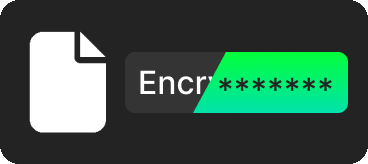
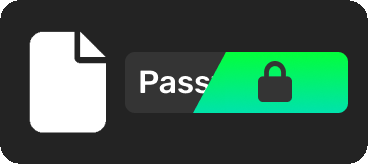
premium page update

diff --git a/src/views/dashboard/Premium.vue b/src/views/dashboard/Premium.vue
@@ -1,43 +1,93 @@
 <template>
-    <div class="inline-grid grid-cols-2 gap-5 m-1/2 translate-x-1/2">
+    <div class="flex flex-col flex-wrap items-center gap-5">
 
-        <div style="background: rgb(169,2,255); background: linear-gradient(0deg, rgb(77, 94, 246) 0%, rgb(168, 175, 241) 100%);" class=" rounded-2xl p-5 w-96 h-72 flex flex-col items-center">
-            <img :src="premiumStorage" class="pointer-events-none rounded-3xl">
-            <div class="h-2"></div>
-            <h1 class=" text-lg font-bold text-white">More Storage Space</h1>
-            <p class=" text-center opacity-90">Make your way life easier with bigger, or <span class="font-bold">unlimited</span> storage space.</p>
+        <!-- PLANS -->
+        <div class="flex flex-row flex-wrap items-center gap-5 select-none">
+
+            <div style=" background: rgb(62,151,255); background: linear-gradient(180deg, #4e5ef6 0%, #a7aef1 100%);" class=" rounded-2xl p-5 w-96 flex flex-col gap-2">
+                <div  class="flex flex-row gap-2 items-center">
+                    <h1 class="text-2xl font-bold"> Share </h1>
+                    <div class="rounded-md select-none font-black text-white px-3 uppercase" style="background-color: rgba(255,255,255,0.3);"> Plus </div>
+                    <div class="text-3xl w-full text-end"> <font-awesome-icon :icon="['fas', 'cloud']"/> </div>
+                </div>
+
+                <div class="flex flex-col text-lg">
+                    <p><font-awesome-icon :icon="['fas', 'boxes-packing']"/> 10GB of storage</p>
+                    <p><font-awesome-icon :icon="['fas', 'shield']" /> Advanced file encryption</p>
+                    <p><font-awesome-icon :icon="['fas', 'palette']" /> Colored nickname</p>
+                    <p><font-awesome-icon :icon="['fas', 'certificate']" /> Special Premium badge</p>
+                    <p>
+                        <br>
+                    </p>
+                </div>
+                
+                <a-button class="mt-10">Subscribe</a-button>
+            </div>
+
+            <div style=" background: rgb(177,0,255); background: linear-gradient(0deg, #a7aef1 0%, #d44ef6 100%);" class=" rounded-2xl p-5 w-96 flex flex-col gap-2">
+                <div  class="flex flex-row gap-2 items-center">
+                    <h1 class="text-2xl font-bold"> Share </h1>
+                    <div class="rounded-md select-none font-black text-white px-3 uppercase" style="background-color: rgba(255,255,255,0.3);"> Pro </div>
+                    <div class="text-3xl w-full text-end"> <font-awesome-icon :icon="['fas', 'cloud-bolt']"/> </div>
+                </div>
+
+                <div class="flex flex-col text-lg">
+                    <p><font-awesome-icon :icon="['fas', 'boxes-packing']"/> 25GB of storage</p>
+                    <p><font-awesome-icon :icon="['fas', 'shield']" /> Advanced file encryption</p>
+                    <p><font-awesome-icon :icon="['fas', 'palette']" /> Colored nickname</p>
+                    <p><font-awesome-icon :icon="['fas', 'certificate']" /> Special Premium badge</p>
+                    <p><font-awesome-icon :icon="['fas', 'lock']" /> Password protected files and way more!</p>
+                </div>
+
+                <a-button class="mt-10">Subscribe</a-button>
+            </div>
+            
         </div>
 
-        <div style="background-color: #141414;" class=" rounded-2xl p-5 w-96 h-72 flex flex-col items-center">
-            <img :src="premiumNames" class="pointer-events-none">
-            <div class="h-2"></div>
-            <h1 class=" text-lg font-bold text-white">Colored Usernames</h1>
-            <p class=" text-center opacity-80">Make yourself stand out with customisable, cool looking usernames.</p>
+        <!-- FEATURES -->
+        <h1 class="text-3xl mt-10 font-bold">Premium Features</h1>
+
+        <div class="flex flex-row flex-wrap items-center gap-5">
+            <div style="background: rgb(169,2,255); background: linear-gradient(0deg, rgb(77, 94, 246) 0%, rgb(168, 175, 241) 100%);" class=" hover:scale-105 hover:drop-shadow-md duration-200 rounded-2xl p-5 w-96 h-72 flex flex-col items-center">
+                <img :src="premiumStorage" class="select-none rounded-3xl">
+                <div class="h-2"></div>
+                <h1 class=" text-lg font-bold text-white">More Storage Space</h1>
+                <p class=" text-center opacity-90">Make your way life easier with bigger, or <span class="font-bold">unlimited</span> storage space.</p>
+            </div>
+
+            <div style="background-color: #141414;" class=" hover:scale-105 hover:drop-shadow-md duration-200 rounded-2xl p-5 w-96 h-72 flex flex-col items-center">
+                <img :src="premiumPassword" class="select-none">
+                <div class="h-2"></div>
+                <h1 class=" text-lg font-bold text-white">Password Protection</h1>
+                <p class=" text-center opacity-80">Protect files with a password, so only people you trust can access them.</p>
+            </div>
         </div>
 
-        <div style="background-color: #141414;" class=" rounded-2xl p-5 w-96 h-72 flex flex-col items-center">
-            <img :src="premiumBadge" class="pointer-events-none">
-            <div class="h-2"></div>
-            <h1 class=" text-lg font-bold text-white">Premium Badge</h1>
-            <p class=" text-center opacity-80">Show off your premium membership with a badge on your profile.</p>
+        <div class="flex flex-row flex-wrap items-center gap-5">
+            <div style="background-color: #141414;" class=" hover:scale-105 hover:drop-shadow-md duration-200 rounded-2xl p-5 w-96 h-72 flex flex-col items-center">
+                <img :src="premiumEncryption" class="select-none">
+                <div class="h-2"></div>
+                <h1 class=" text-lg font-bold text-white">File Encryption</h1>
+                <p class=" text-center opacity-80">Don't worry about your private documents with our advanced file  encryption.</p>
+            </div>
+
+            <div style="background-color: #141414;" class=" hover:scale-105 hover:drop-shadow-md duration-200 rounded-2xl p-5 w-96 h-72 flex flex-col items-center">
+                <img :src="premiumNames" class="select-none">
+                <div class="h-2"></div>
+                <h1 class=" text-lg font-bold text-white">Colored Usernames</h1>
+                <p class=" text-center opacity-80">Make yourself stand out with customisable, cool looking usernames.</p>
+            </div>
+        </div>
+
+        <div class="flex flex-row flex-wrap items-center gap-5">
+            <div style="background-color: #141414;" class=" hover:scale-105 hover:drop-shadow-md duration-200 rounded-2xl p-5 w-96 h-72 flex flex-col items-center">
+                <img :src="premiumBadge" class="select-none">
+                <div class="h-2"></div>
+                <h1 class=" text-lg font-bold text-white">Premium Badge</h1>
+                <p class=" text-center opacity-80">Show off your premium membership with a badge on your profile.</p>
+            </div>
         </div>
         
-        <div style="background-color: #141414;" class=" rounded-2xl p-5 w-96 h-72 flex flex-col items-center">
-            <img :src="premiumEncryption" class="pointer-events-none">
-            <div class="h-2"></div>
-            <h1 class=" text-lg font-bold text-white">File Encryption</h1>
-            <p class=" text-center opacity-80">Don't worry about your private documents with our advanced file  encryption</p>
-        </div>
-        
-        <div style="background-color: #141414;" class=" rounded-2xl p-5 w-96 h-72 flex flex-col items-center">
-            <img :src="premiumPassword" class="pointer-events-none">
-            <div class="h-2"></div>
-            <h1 class=" text-lg font-bold text-white">Password Protection</h1>
-            <p class=" text-center opacity-80">Protect files with a password, so only people you trust can access them.</p>
-        </div>
-        
-        
-
         
     </div>
 </template>
@@ -48,5 +98,4 @@
     import premiumStorage from "/src/assets/img/premium-storage-0001.png";
     import premiumEncryption from "/src/assets/img/premium-encryption-0004.png";
     import premiumPassword from "/src/assets/img/premium-password-0005.png";
-    
 </script>

diff --git a/src/main.js b/src/main.js
@@ -49,7 +49,13 @@ import {
   faShieldHalved,
   faMoon,
   faWrench,
-  faCodePullRequest
+  faCodePullRequest,
+  faBoxesPacking,
+  faShield,
+  faPalette,
+  faCertificate,
+  faCloud,
+  faCloudBolt
 } from "@fortawesome/free-solid-svg-icons";
 
 import { faDiscord } from "@fortawesome/free-brands-svg-icons";
@@ -84,7 +90,13 @@ library.add(
   faShieldHalved,
   faMoon,
   faWrench,
-  faCodePullRequest
+  faCodePullRequest,
+  faBoxesPacking,
+  faShield,
+  faPalette,
+  faCertificate,
+  faCloud,
+  faCloudBolt
 );
 
 const app = createApp(App);
